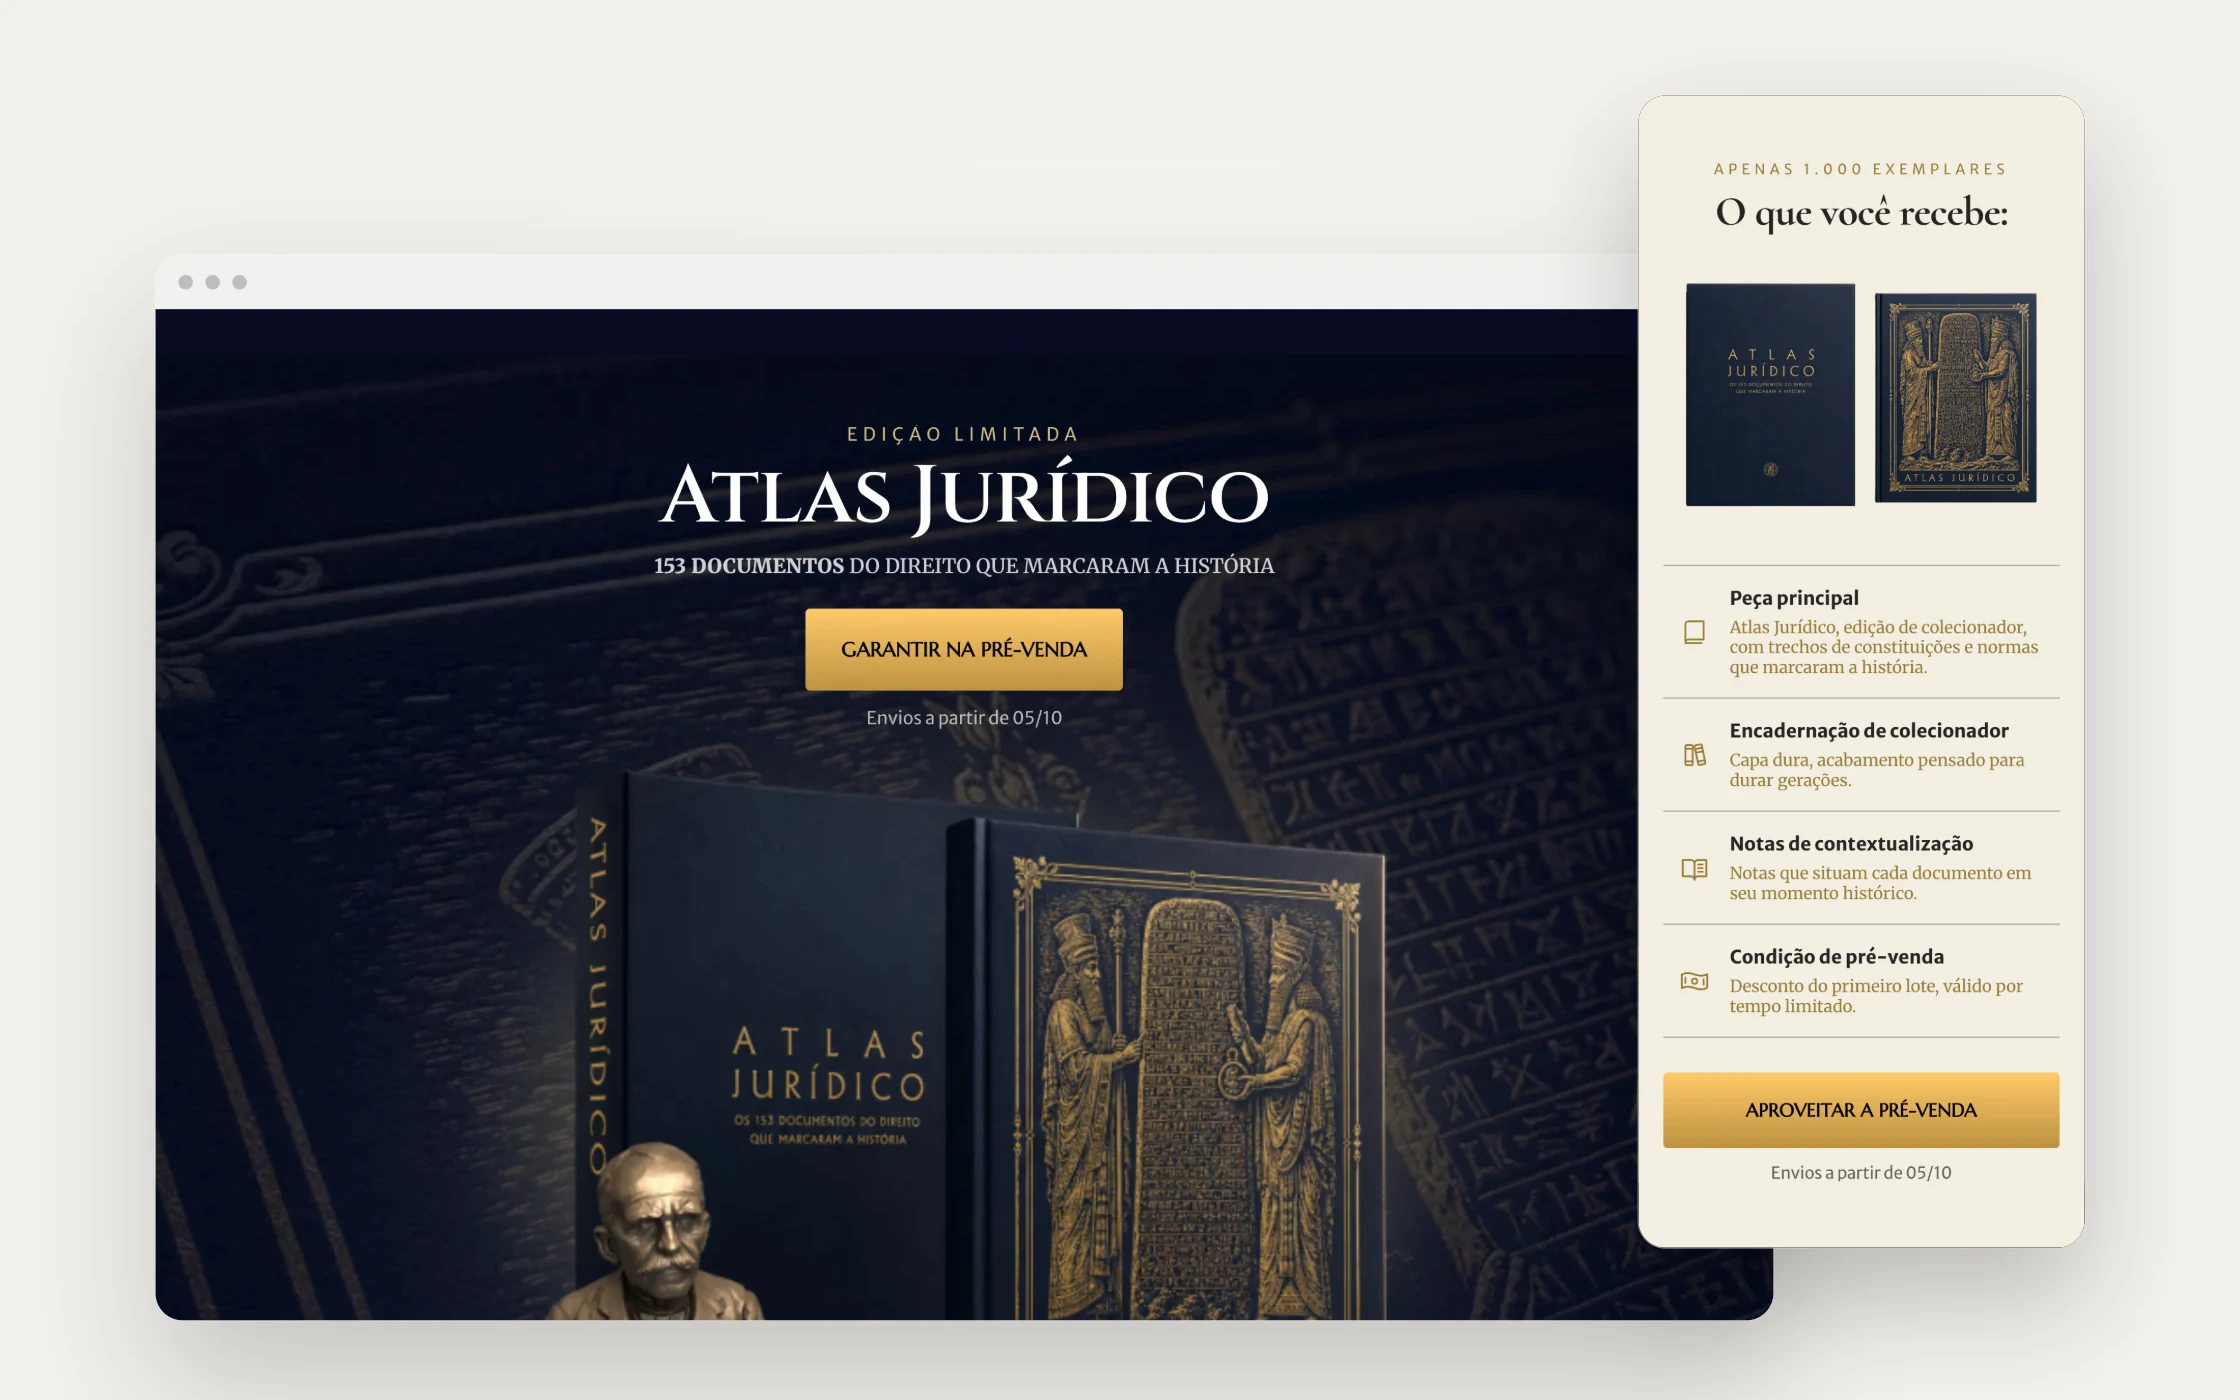
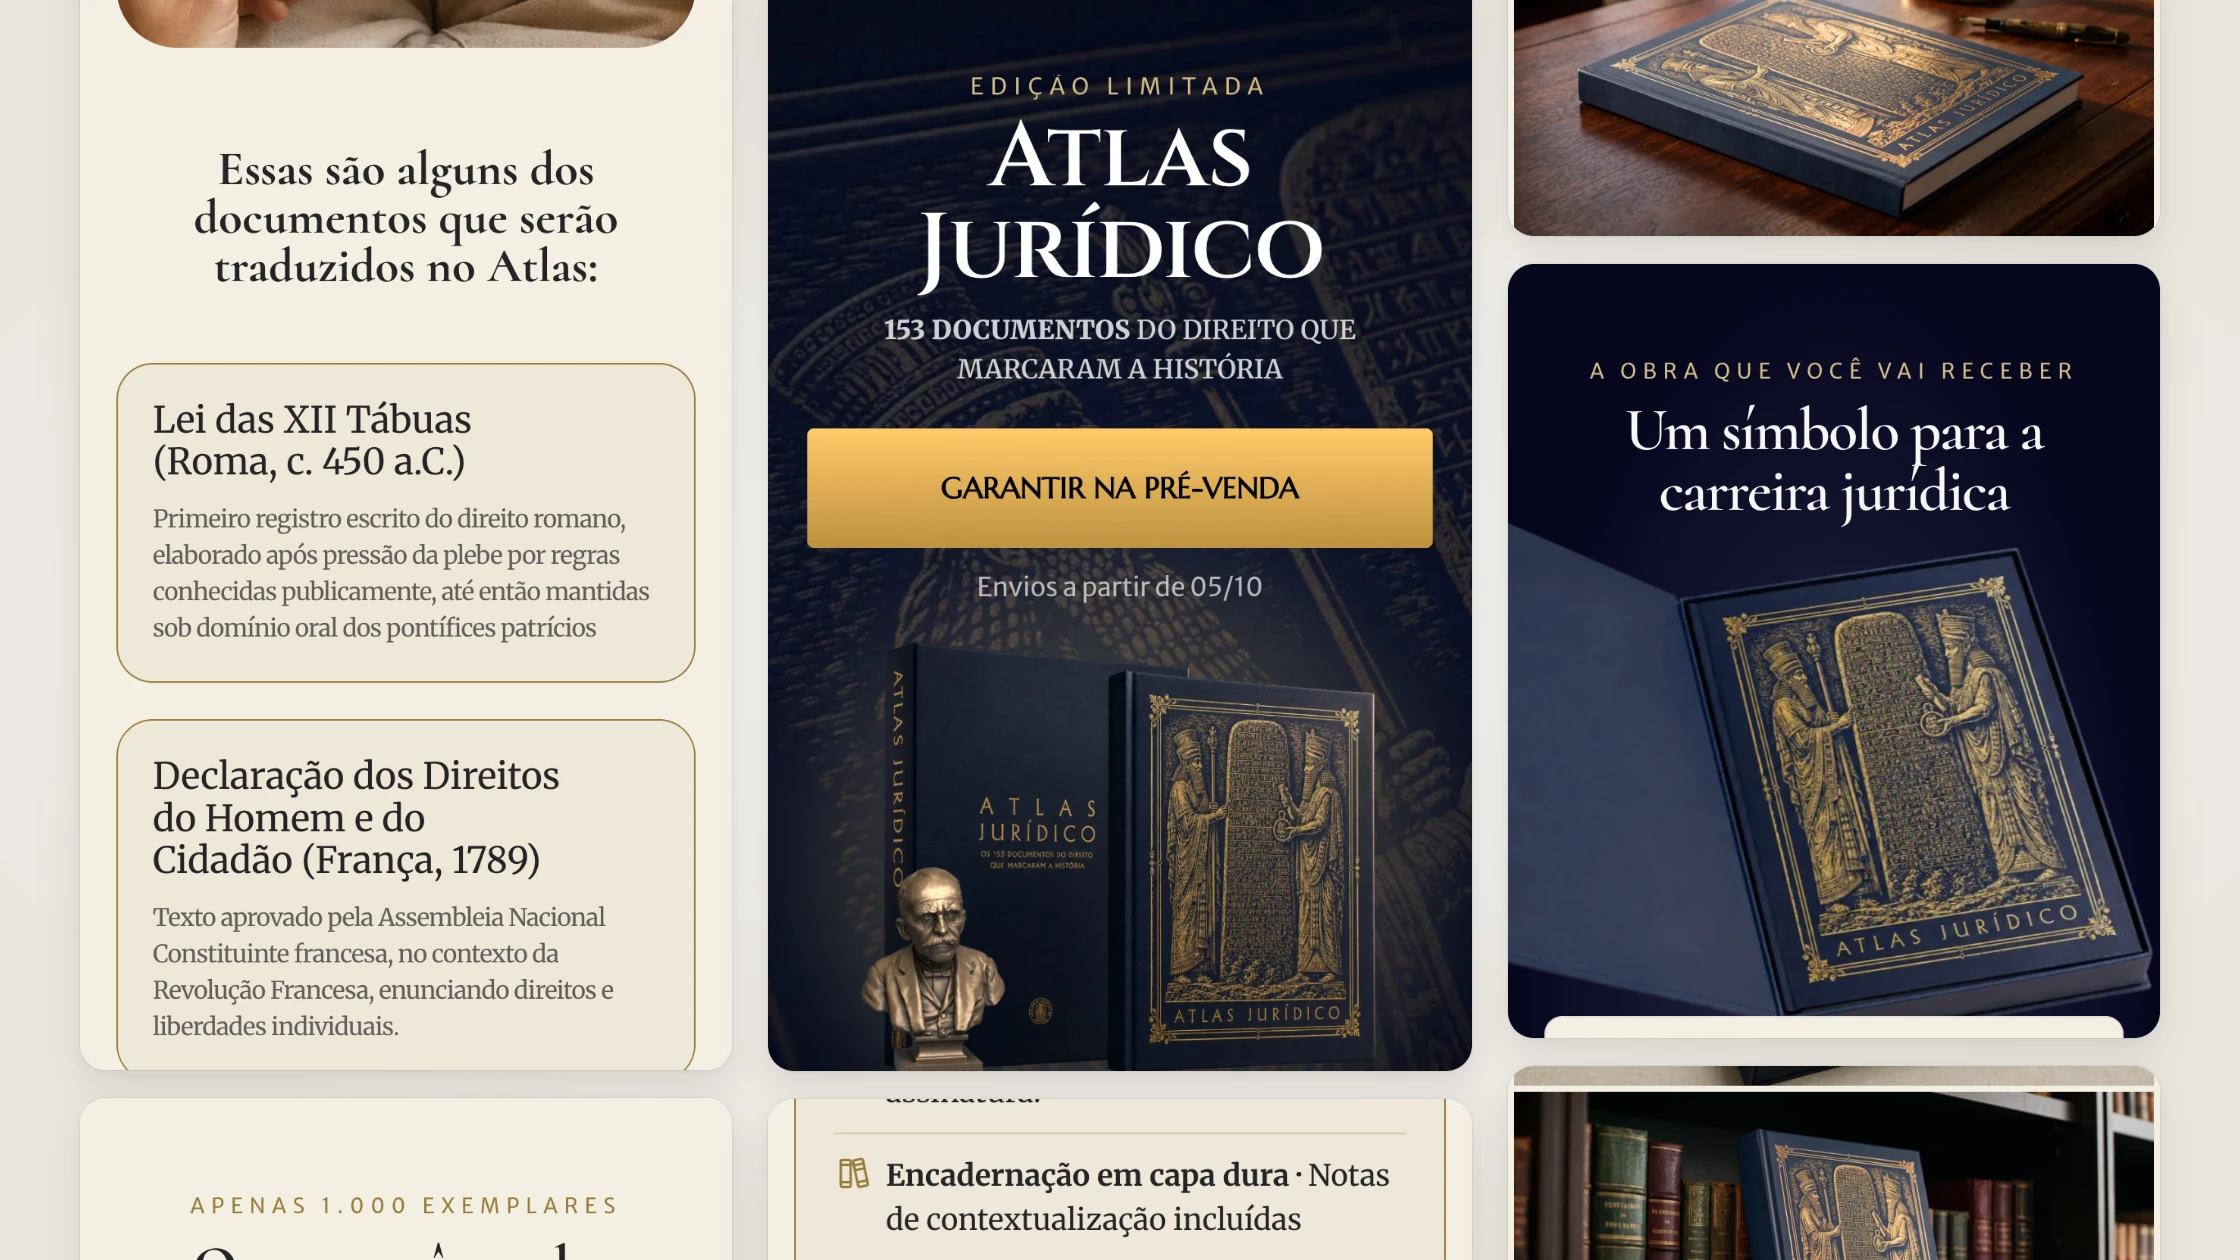
feat(case): update atlas juridico case narrative and assets

diff --git a/ROADMAP.md b/ROADMAP.md
@@ -27,6 +27,11 @@
 ## Changelog
 
 ### 2026-09-19
+- Cases de projetos (`src/pages/projects/[slug].astro`):
+  - Métricas ("Em números"): movidas do topo para o final da narrativa dentro do corpo do case, com rótulo na coluna esquerda e números sutis na coluna direita (estilo minimalista sem caixas cinzas pesadas ou elevação).
+  - Links de marcas no texto: removido botão genérico "Ver projeto ↗" (evitando quebra por LPs de lançamento temporárias) e adicionados links permanentes nos nomes das marcas no corpo dos cases (Círculo Jurídico, Flouds, MSK, Sant Saúde, Yours Bank).
+  - Alinhamento de listas: recuo ajustado para manter marcadores alinhados à coluna de leitura sem vazar na margem do celular.
+  - Rodapé e espaçamento: adicionada prop `hideFooter` em `SiteLayout` para ocultar o rodapé global em cases, removido link redundante "Ver todos os projetos →" e ajustado o espaçamento final para encerrar a página logo após os cards de outros projetos.
 - Case Atlas Jurídico: publicado oficialmente no portfólio (`/projects/atlas-juridico`) com showreel 16:9 em loop no topo (`coverVideo`), mockups em alta resolução gerados das interfaces e bloco de métricas destacadas (~50 vendas em 3h, 84% tráfego mobile).
 - Performance: Phosphor Icons migrado de CDN externo (`unpkg.com`) para pacote empacotado localmente (`@phosphor-icons/web`) em `packpro.astro`, `calculadora.astro`, `packpro/calculadora.astro`, `packpro/bonus/index.astro` e `PackProBonus.astro`, eliminando dependências e latências externas de rede.
 - Safari Status Bar: `BaseLayout.astro` atualizado com `<meta name="theme-color">` adaptativo para modo claro (`#ffffff`) e escuro (`#111111`) via media query, eliminando a barra escura sobre fundo branco no iPhone e Mac.
